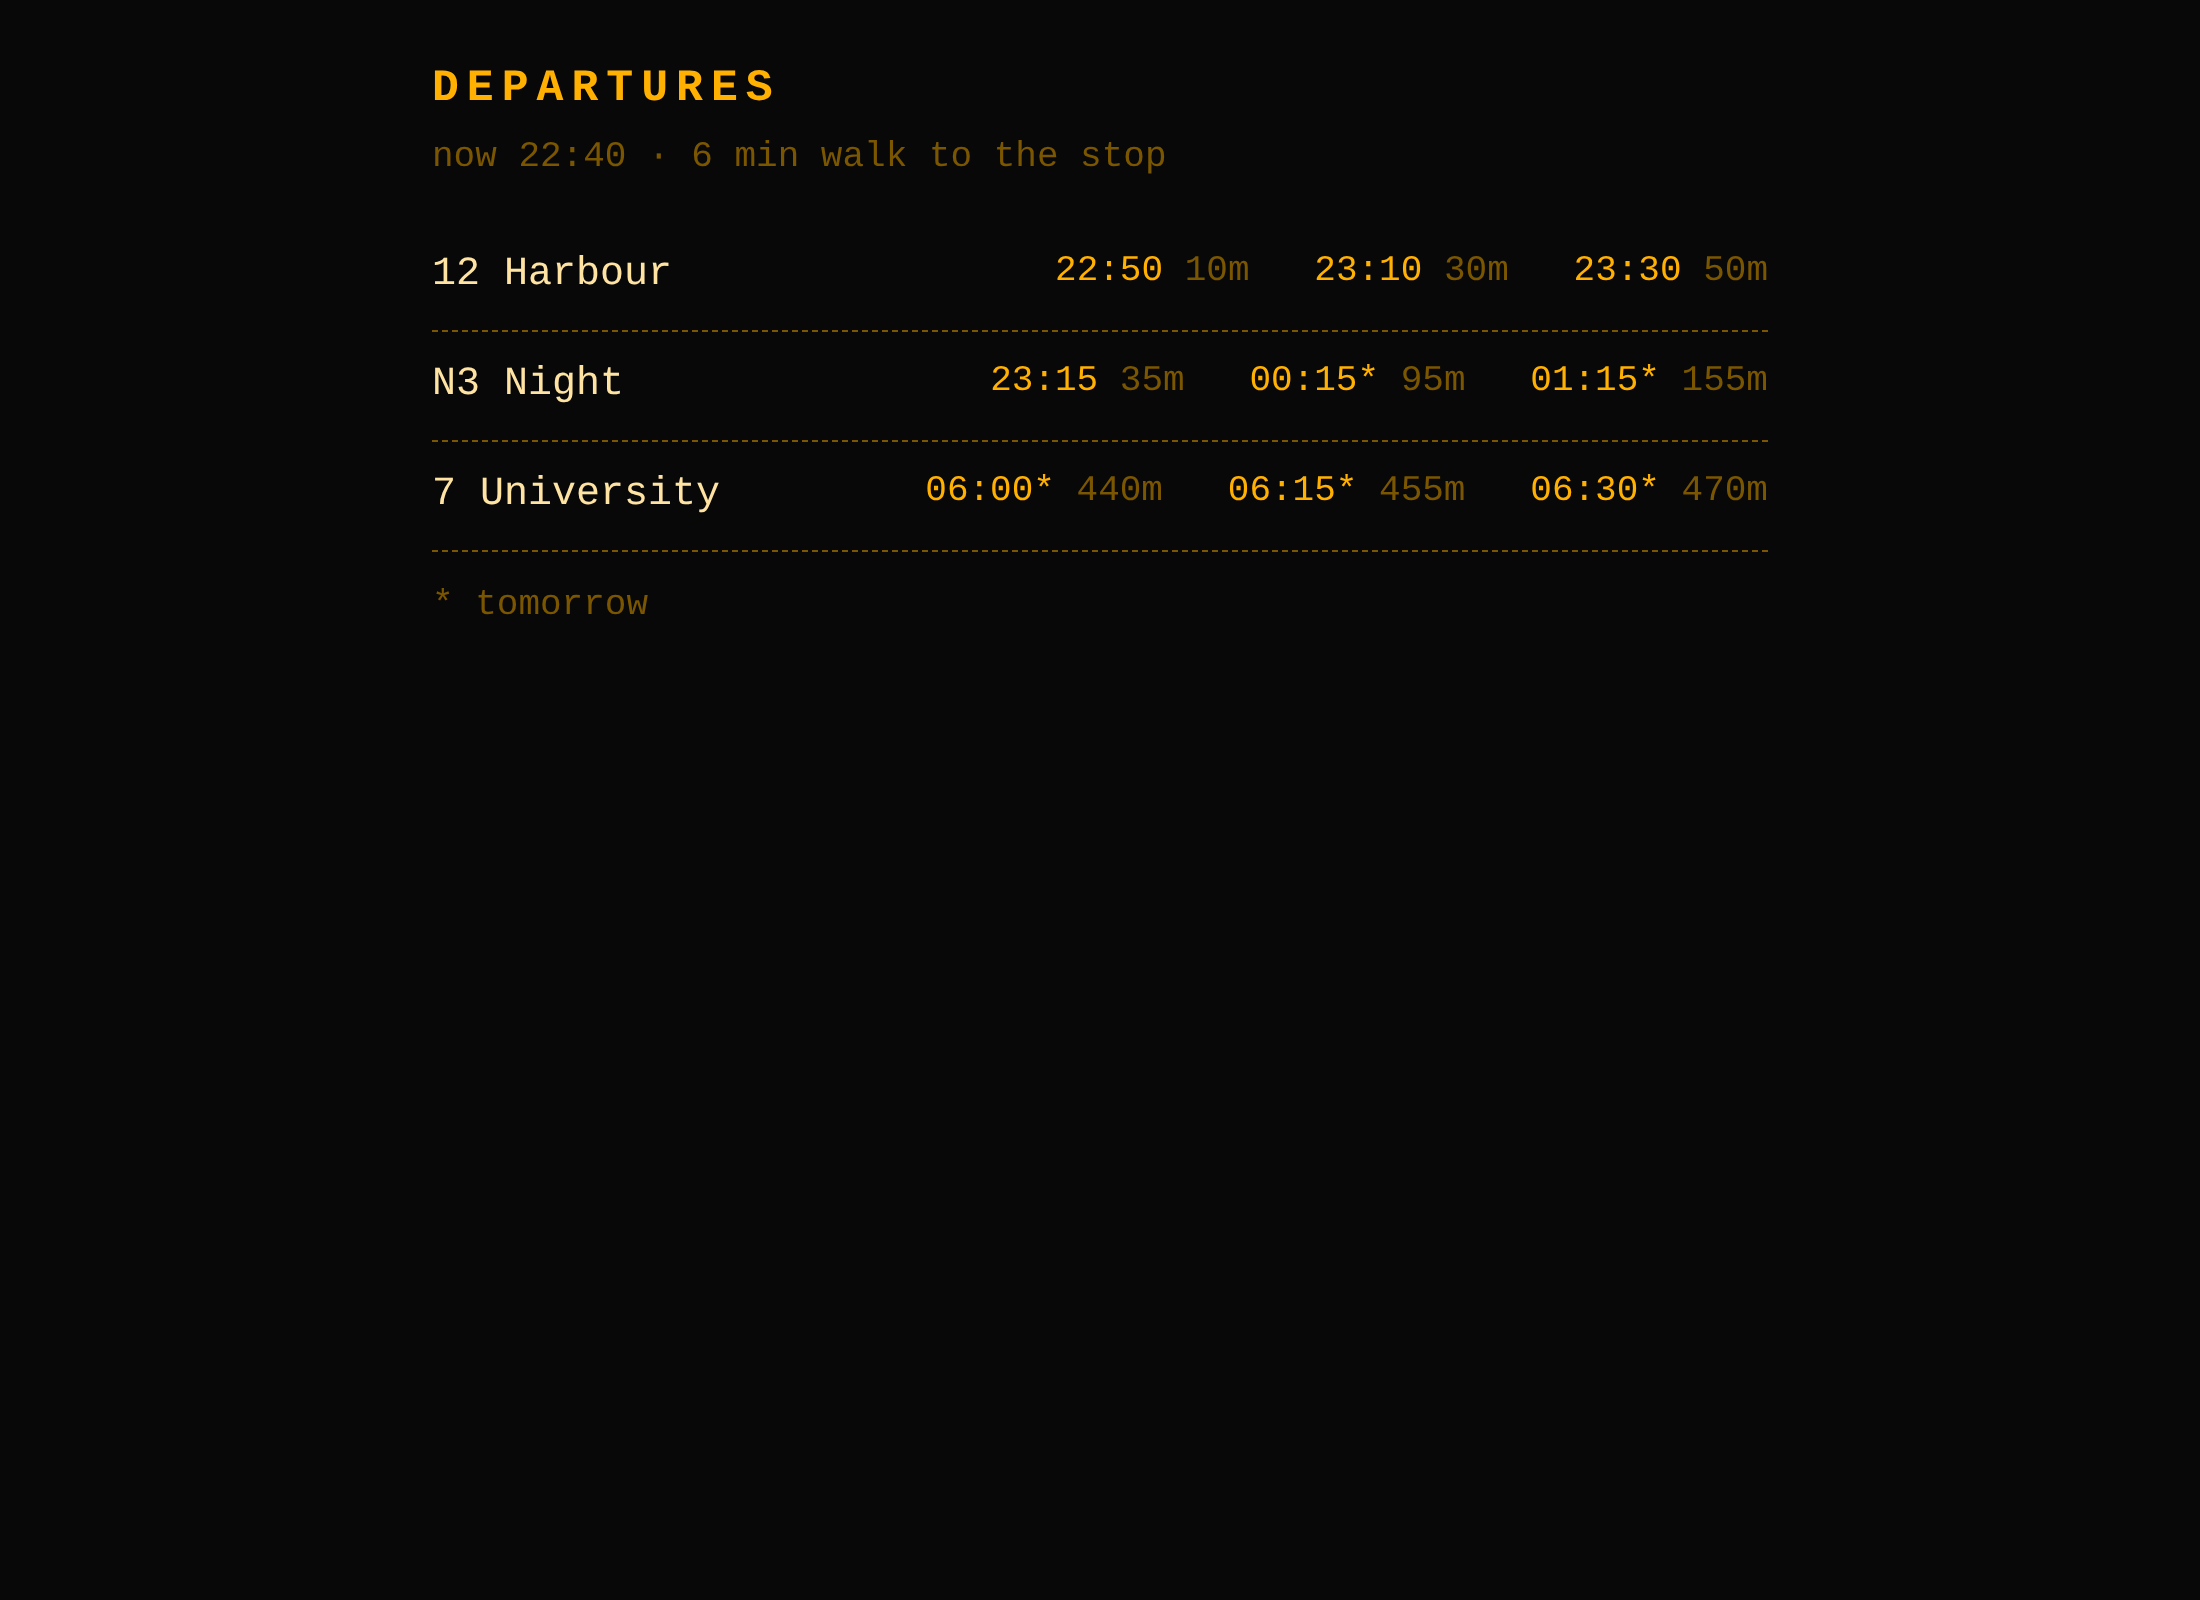
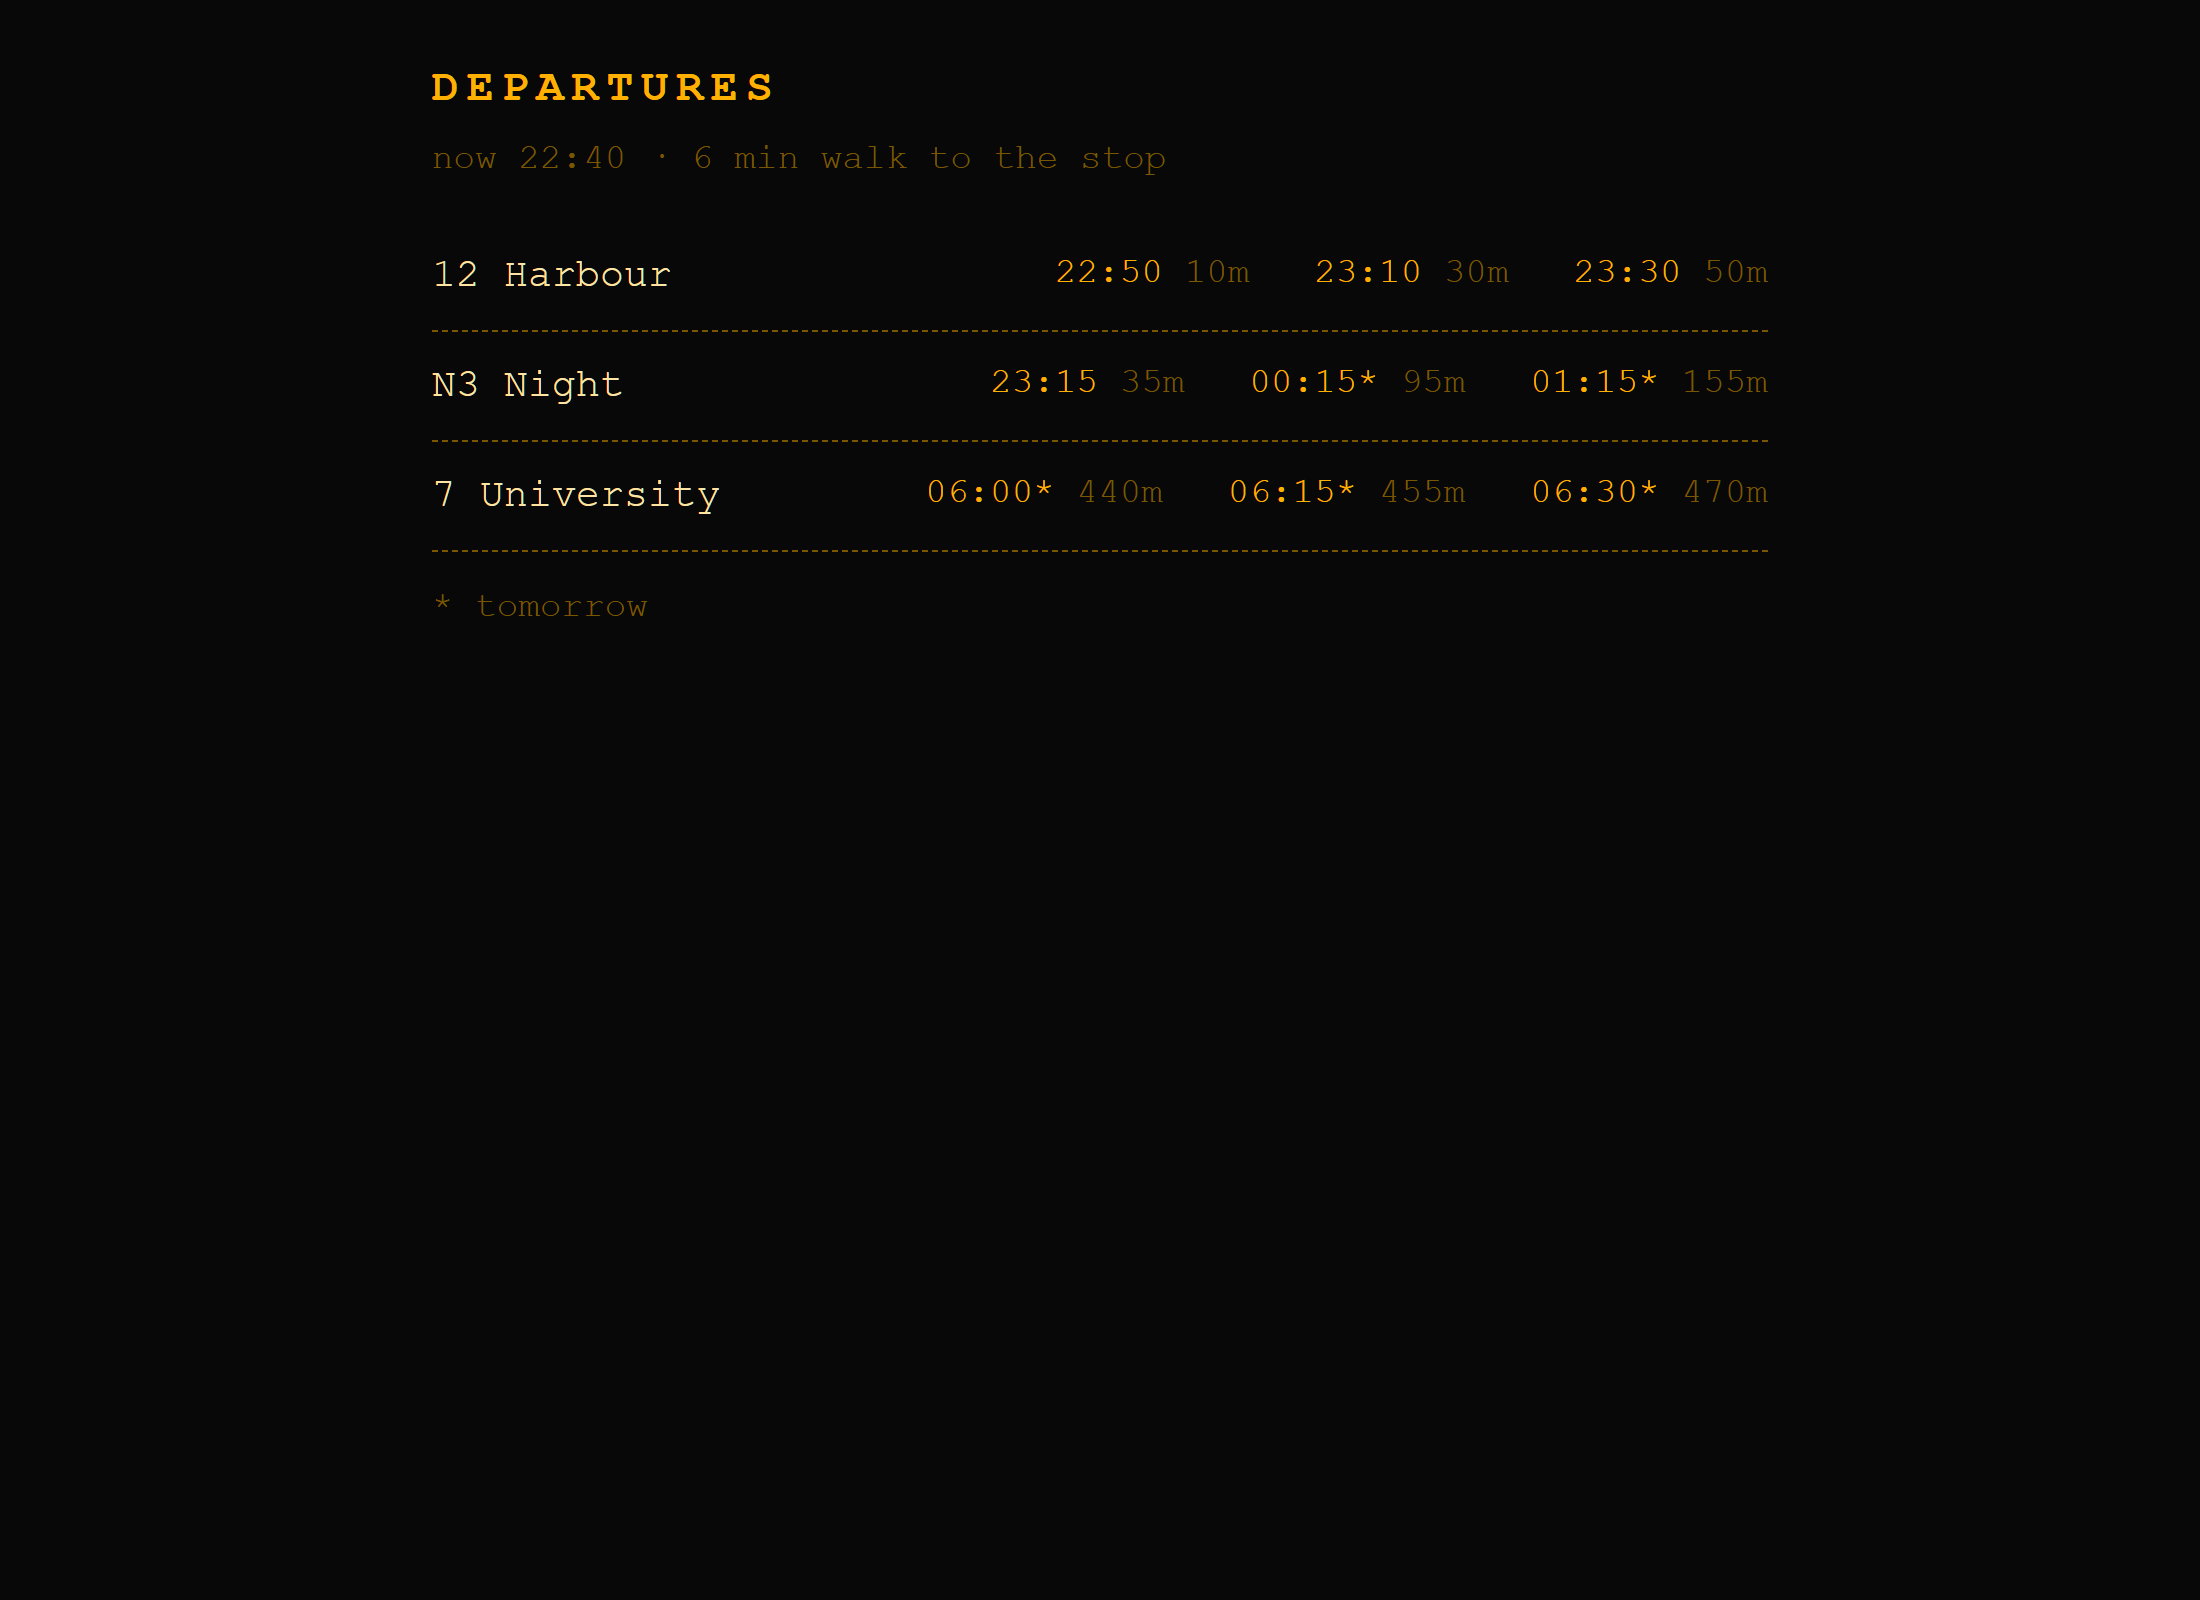
Improve next-bus-finder

diff --git a/projects/next-bus-finder/static/index.html b/projects/next-bus-finder/static/index.html
@@ -7,15 +7,16 @@
 main{max-width:700px;margin:0 auto;padding:28px 16px}h1{margin:0 0 4px;letter-spacing:4px;text-transform:uppercase;font-size:1.4rem}
 .sub{color:var(--dim);margin-bottom:18px}
 .row{display:grid;grid-template-columns:1fr auto;gap:8px;border-bottom:1px dashed var(--dim);padding:12px 0}
-.row .n{font-size:1.25rem;color:var(--ink)}.t{text-align:right;white-space:nowrap}.t i{font-style:normal;color:var(--dim)}
+.row .n{font-size:1.25rem;color:var(--ink)}.t{text-align:right;white-space:nowrap}@media(max-width:480px){.row{grid-template-columns:1fr}.t{text-align:left;white-space:normal}}.t i{font-style:normal;color:var(--dim)}
 .tag{display:inline-block;border:1px solid var(--amber);padding:0 6px;font-size:.8rem;margin-left:8px}
+@media (prefers-color-scheme: dark){:root{--dim:#c9b57c}body{background:#15161c;color:#eceef5}}
 </style></head><body><main>
 <h1>Departures</h1><div class="sub" id="sub"></div><div id="out"></div></main>
 <script>
-(async()=>{
+(async()=>{try{
   const s=await (await fetch("/sample")).json();
   const r=await (await fetch("/board",{method:"POST",headers:{"Content-Type":"application/json"},body:JSON.stringify({routes:s.routes,now:s.now,walk_min:s.walk_min})})).json();
   document.getElementById("sub").textContent=`now ${s.now} · ${s.walk_min} min walk to the stop`;
-  document.getElementById("out").innerHTML=r.rows.map(x=>`<div class="row"><div class="n">${x.route}${x.is_last?'<span class="tag">LAST BUS</span>':""}</div><div class="t">${x.next.map(d=>`${d.time}${d.tomorrow?"*":""} <i>${d.in_min}m</i>`).join(" &nbsp; ")}</div></div>`).join("")+'<div class="sub" style="margin-top:14px">* tomorrow</div>';
+  document.getElementById("out").innerHTML=r.rows.map(x=>`<div class="row"><div class="n">${x.route}${x.is_last?'<span class="tag">LAST BUS</span>':""}</div><div class="t">${x.next.map(d=>`${d.time}${d.tomorrow?"*":""} <i>${d.in_min}m</i>`).join(" &nbsp; ")}</div></div>`).join("")+'<div class="sub" style="margin-top:14px">* tomorrow</div>';}catch(e){document.getElementById("out").textContent="Could not load the departures. Refresh to try again."}
 })();
 </script></body></html>

diff --git a/projects/next-bus-finder/tests/test_all.py b/projects/next-bus-finder/tests/test_all.py
@@ -61,3 +61,9 @@ def test_api():
     assert r["rows"][0]["route"] == "12 Harbour"
     assert c.get("/").status_code == 200
     assert c.post("/board", json={"routes": [], "now": "10:00"}).status_code == 422
+
+
+def test_index_has_departures_error_text_and_dark_scheme():
+    page = c.get("/").text
+    assert "Could not load the departures" in page
+    assert "prefers-color-scheme: dark" in page
